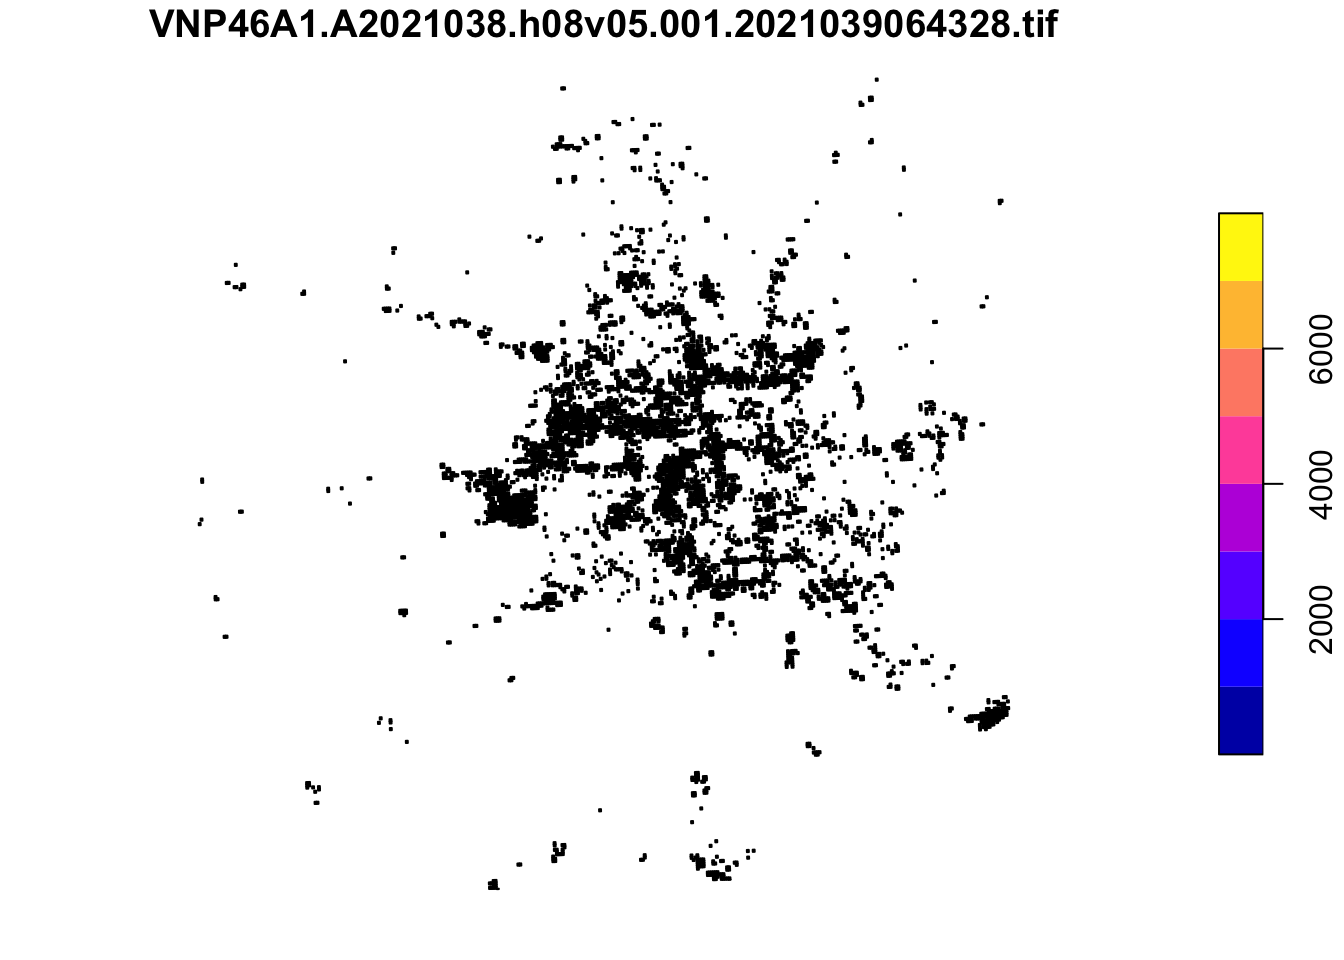
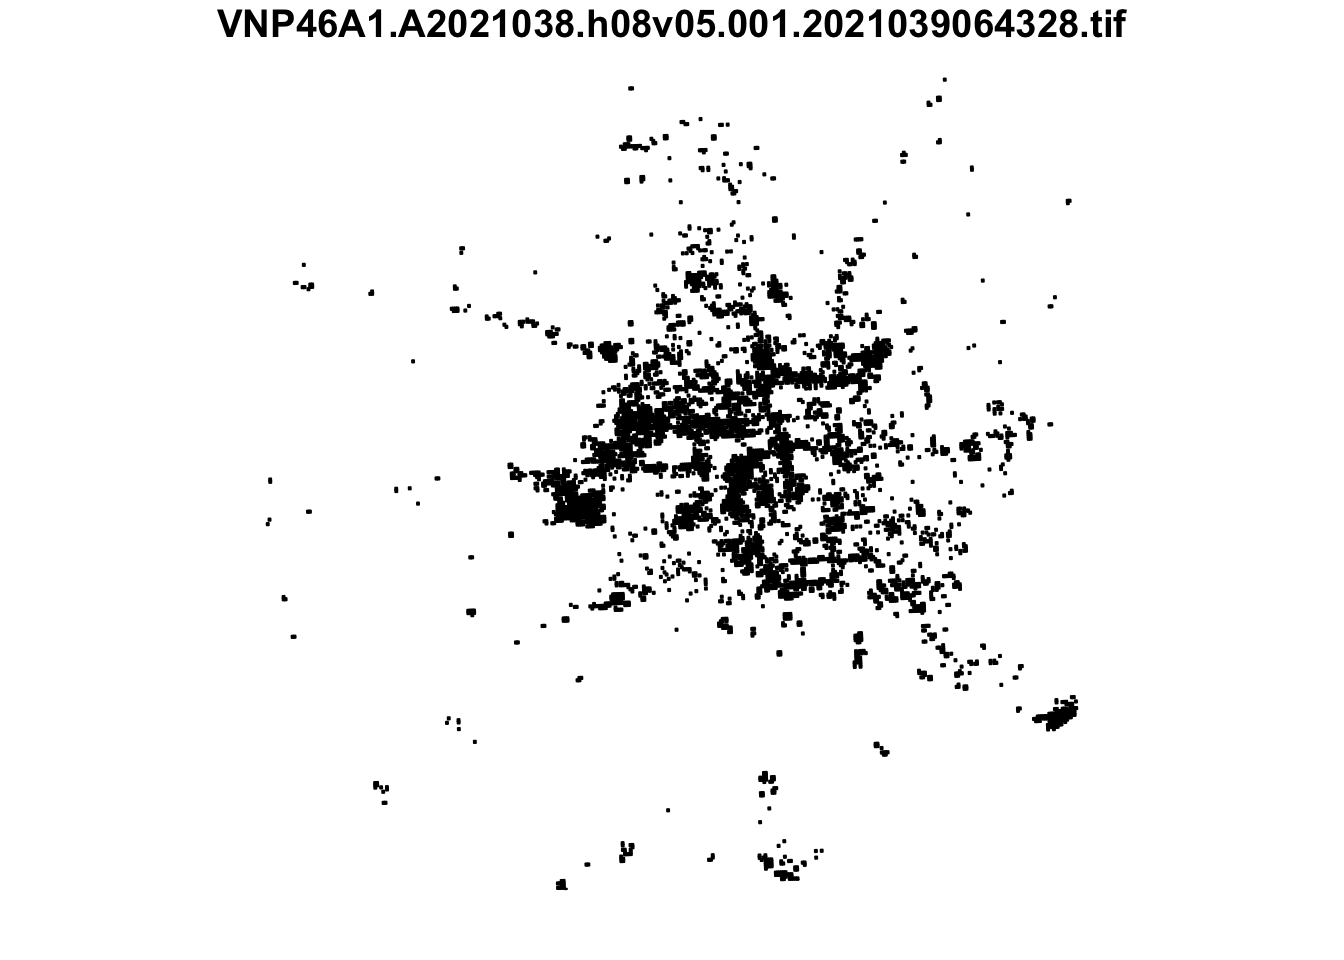
polishing geo blog

diff --git a/docs/blog/2023-12-2-geo-proj/index.html b/docs/blog/2023-12-2-geo-proj/index.html
@@ -2,7 +2,7 @@
 <html xmlns="http://www.w3.org/1999/xhtml" lang="en" xml:lang="en"><head>
 
 <meta charset="utf-8">
-<meta name="generator" content="quarto-1.3.433">
+<meta name="generator" content="quarto-1.3.450">
 
 <meta name="viewport" content="width=device-width, initial-scale=1.0, user-scalable=yes">
 
@@ -291,7 +291,7 @@ pre > code.sourceCode > span > a:first-child::before { text-decoration: underlin
 <span id="cb5-16"><a href="#cb5-16" aria-hidden="true" tabindex="-1"></a><span class="co"># assign EPSG:3083 CRS to assure consistent CRS</span></span>
 <span id="cb5-17"><a href="#cb5-17" aria-hidden="true" tabindex="-1"></a>cropped_blackout_proj <span class="ot">&lt;-</span> <span class="fu">st_transform</span>(cropped_blackout_proj, <span class="at">crs =</span> <span class="st">"EPSG:3083"</span>)</span>
 <span id="cb5-18"><a href="#cb5-18" aria-hidden="true" tabindex="-1"></a></span>
-<span id="cb5-19"><a href="#cb5-19" aria-hidden="true" tabindex="-1"></a><span class="fu">plot</span>(cropped_blackout_proj)</span></code><button title="Copy to Clipboard" class="code-copy-button"><i class="bi"></i></button></pre></div>
+<span id="cb5-19"><a href="#cb5-19" aria-hidden="true" tabindex="-1"></a><span class="fu">plot</span>(cropped_blackout_proj, <span class="at">colorbar =</span> <span class="cn">FALSE</span>)</span></code><button title="Copy to Clipboard" class="code-copy-button"><i class="bi"></i></button></pre></div>
 <div class="cell-output-display">
 <p><img src="index_files/figure-html/unnamed-chunk-5-1.png" class="img-fluid" width="672"></p>
 </div>
@@ -389,7 +389,7 @@ pre > code.sourceCode > span > a:first-child::before { text-decoration: underlin
 </section>
 <section id="results-and-visualizations" class="level2">
 <h2 class="anchored" data-anchor-id="results-and-visualizations">Results and Visualizations</h2>
-<p>At this stage of the analysis, it is time to get down to the main analysis and determine the potential difference in income between impacted versus unimpacted tracts. To conduct this analysis, we will createa a map of median income by census tract and a box-plot of the income in impacted versus unimpacted tracts.</p>
+<p>At this stage of the analysis, it is time to get down to the main analysis and determine the potential difference in income between impacted versus unimpacted tracts. To conduct this analysis, we will create a a map of median income by census tract and a box-plot of the income in impacted versus unimpacted tracts.</p>
 <div class="cell">
 <div class="sourceCode cell-code" id="cb10"><pre class="sourceCode r code-with-copy"><code class="sourceCode r"><span id="cb10-1"><a href="#cb10-1" aria-hidden="true" tabindex="-1"></a><span class="co"># add impact status column </span></span>
 <span id="cb10-2"><a href="#cb10-2" aria-hidden="true" tabindex="-1"></a>acs_data<span class="sc">$</span>impact_status <span class="ot">&lt;-</span> <span class="fu">ifelse</span>(acs_data<span class="sc">$</span>GEOID <span class="sc">%in%</span> tracts_with_blackouts, <span class="st">"Impacted"</span>, <span class="st">"Unimpacted"</span>)</span>
@@ -426,11 +426,16 @@ pre > code.sourceCode > span > a:first-child::before { text-decoration: underlin
 <p><img src="index_files/figure-html/unnamed-chunk-10-1.png" class="img-fluid" width="672"></p>
 </div>
 </div>
-<p><code>{r. warning=FALSE} boxplot</code></p>
+<div class="cell">
+<div class="sourceCode cell-code" id="cb12"><pre class="sourceCode r code-with-copy"><code class="sourceCode r"><span id="cb12-1"><a href="#cb12-1" aria-hidden="true" tabindex="-1"></a>boxplot</span></code><button title="Copy to Clipboard" class="code-copy-button"><i class="bi"></i></button></pre></div>
+<div class="cell-output-display">
+<p><img src="index_files/figure-html/unnamed-chunk-11-1.png" class="img-fluid" width="672"></p>
+</div>
+</div>
 </section>
 <section id="conclusion" class="level2">
 <h2 class="anchored" data-anchor-id="conclusion">Conclusion</h2>
-<p>The results show that the median income of a cencus tract did not influence how likely they were to have experienced a blackout. This can be seen in the map, but the box plot reveals it in a clearer picture. While it may seem that poorer tracts would be less likely to be influenced by the blackout and that it would take longer for their power to be fully rejuvenated, it is important to consider that there are many factors to consider in this situation. For example, it is possible that the distribution of power infrastructure and its resilience to extreme weather events played a more significant role in the occurrence of blackouts than socioeconomic factors. Areas with older or less maintained power grids, regardless of the median income of the residents, might have been more susceptible to failures. Additionally, the physical geography of the region, such as elevation or proximity to water bodies, could have influenced the impact of the winter storms on power availability. It’s also worth considering the location of essential services and emergency response priorities, which might lead to quicker restoration in certain areas irrespective of their economic status. These complexities highlight the importance of a multifaceted approach in understanding and addressing the challenges posed by such natural disasters.</p>
+<p>The results show that the median income of a census tract did not influence how likely they were to have experienced a blackout. This can be seen in the map, but the box plot reveals it in a clearer picture. While it may seem that poorer tracts would be less likely to be influenced by the blackout and that it would take longer for their power to be fully rejuvenated, it is important to consider that there are many factors to consider in this situation. For example, it is possible that the distribution of power infrastructure and its resilience to extreme weather events played a more significant role in the occurrence of blackouts than socioeconomic factors. Areas with older or less maintained power grids, regardless of the median income of the residents, might have been more susceptible to failures. Additionally, the physical geography of the region, such as elevation or proximity to water bodies, could have influenced the impact of the winter storms on power availability. It’s also worth considering the location of essential services and emergency response priorities, which might lead to quicker restoration in certain areas irrespective of their economic status. These complexities highlight the importance of a multifaceted approach in understanding and addressing the challenges posed by such natural disasters.</p>
 
 
 </section>

diff --git a/docs/blog.html b/docs/blog.html
@@ -169,7 +169,7 @@ ul.task-list li input[type="checkbox"] {
 
 <div class="quarto-listing quarto-listing-container-default" id="listing-listing">
 <div class="list quarto-listing-default">
-<div class="quarto-post image-right" data-index="0" data-categories="R,MEDS,Maps" data-listing-date-sort="1702627200000" data-listing-file-modified-sort="1701888872403" data-listing-date-modified-sort="NaN" data-listing-reading-time-sort="9">
+<div class="quarto-post image-right" data-index="0" data-categories="R,MEDS,Maps" data-listing-date-sort="1702627200000" data-listing-file-modified-sort="1701931224967" data-listing-date-modified-sort="NaN" data-listing-reading-time-sort="9">
 <div class="thumbnail">
 <p><a href="./blog/2023-12-2-geo-proj/index.html"> <p class="card-img-top"><img src="blog/2023-12-2-geo-proj/index_files/figure-html/unnamed-chunk-4-1.png"  class="thumbnail-image card-img"/></p> </a></p>
 </div>
@@ -253,7 +253,7 @@ Maxwell Patterson
 </a>
 </div>
 </div>
-<div class="quarto-post image-right" data-index="3" data-categories="R,Quarto,Datasets" data-listing-date-sort="1702454400000" data-listing-file-modified-sort="1701930151567" data-listing-date-modified-sort="NaN" data-listing-reading-time-sort="5">
+<div class="quarto-post image-right" data-index="3" data-categories="R,Quarto,Datasets" data-listing-date-sort="1702454400000" data-listing-file-modified-sort="1701930246599" data-listing-date-modified-sort="NaN" data-listing-reading-time-sort="5">
 <div class="thumbnail">
 <p><a href="./blog/2023-12-5-envdata-proj/analysis.html"> <p class="card-img-top"><img src="blog/2023-12-5-envdata-proj/analysis_files/figure-html/cell-6-output-1.png"  class="thumbnail-image card-img"/></p> </a></p>
 </div>
